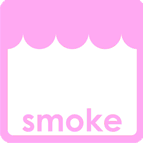
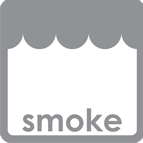
Added interactive GUI

diff --git a/resources/UserSettings.qml b/resources/UserSettings.qml
@@ -17,36 +17,59 @@ Column{
         spacing: 10
 
         Image{
+            id: smoke
             width: (parent.width*(1/3) - 10)
             height: parent.height
-            source: "pics/smoke.png"
+            source: "pics/smoke_inactive.png"
 
             MouseArea {
                 anchors.fill: parent
-                onPressed: { parent.source = 'pics/fire.png' }
-                onReleased: { parent.source = 'pics/smoke.png' }
+                onClicked: { 
+                    parent.source = 'pics/smoke2.png'
+                    fiSlider.value = Math.floor(Math.random()*(fiSlider.maximumValue-fiSlider.minimumValue+1)+fiSlider.minimumValue)
+                    deltaSlider.value = Math.floor(Math.random()*(deltaSlider.maximumValue-deltaSlider.minimumValue+1)+deltaSlider.minimumValue)
+                    rooSlider.value = Math.floor(Math.random()*(rooSlider.maximumValue-rooSlider.minimumValue+1)+rooSlider.minimumValue)
+                    fire.source = "pics/fire_inactive.png"
+                    water.source = "pics/water_inactive.png"
+                }
             }
         }
 
         Image{
+            id: fire
             width: (parent.width*(1/3) - 10)
             height: parent.height
-            source: "pics/fire.png"
+            source: "pics/fire_inactive.png"
 
             MouseArea {
                 anchors.fill: parent
-                onClicked: { parent.color = 'green' }
+                onClicked: { 
+                    parent.source = 'pics/fire2.png'
+                    fiSlider.value = Math.floor(Math.random()*(fiSlider.maximumValue-fiSlider.minimumValue+1)+fiSlider.minimumValue)
+                    deltaSlider.value = Math.floor(Math.random()*(deltaSlider.maximumValue-deltaSlider.minimumValue+1)+deltaSlider.minimumValue)
+                    rooSlider.value = Math.floor(Math.random()*(rooSlider.maximumValue-rooSlider.minimumValue+1)+rooSlider.minimumValue)
+                    smoke.source = "pics/smoke_inactive.png"
+                    water.source = "pics/water_inactive.png"
+                }
             }
         }
 
         Image{
+            id: water
             width: (parent.width*(1/3) - 10)
             height: parent.height
-            source: "pics/water.png"
+            source: "pics/water_inactive.png"
 
             MouseArea {
                 anchors.fill: parent
-                onClicked: { parent.color = 'blue' }
+                onClicked: { 
+                    parent.source = 'pics/water2.png'
+                    fiSlider.value = Math.floor(Math.random()*(fiSlider.maximumValue-fiSlider.minimumValue+1)+fiSlider.minimumValue)
+                    deltaSlider.value = Math.floor(Math.random()*(deltaSlider.maximumValue-deltaSlider.minimumValue+1)+deltaSlider.minimumValue)
+                    rooSlider.value = Math.floor(Math.random()*(rooSlider.maximumValue-rooSlider.minimumValue+1)+rooSlider.minimumValue)
+                    smoke.source = "pics/smoke_inactive.png"
+                    fire.source = "pics/fire_inactive.png"
+                }
             }
         }
     }
